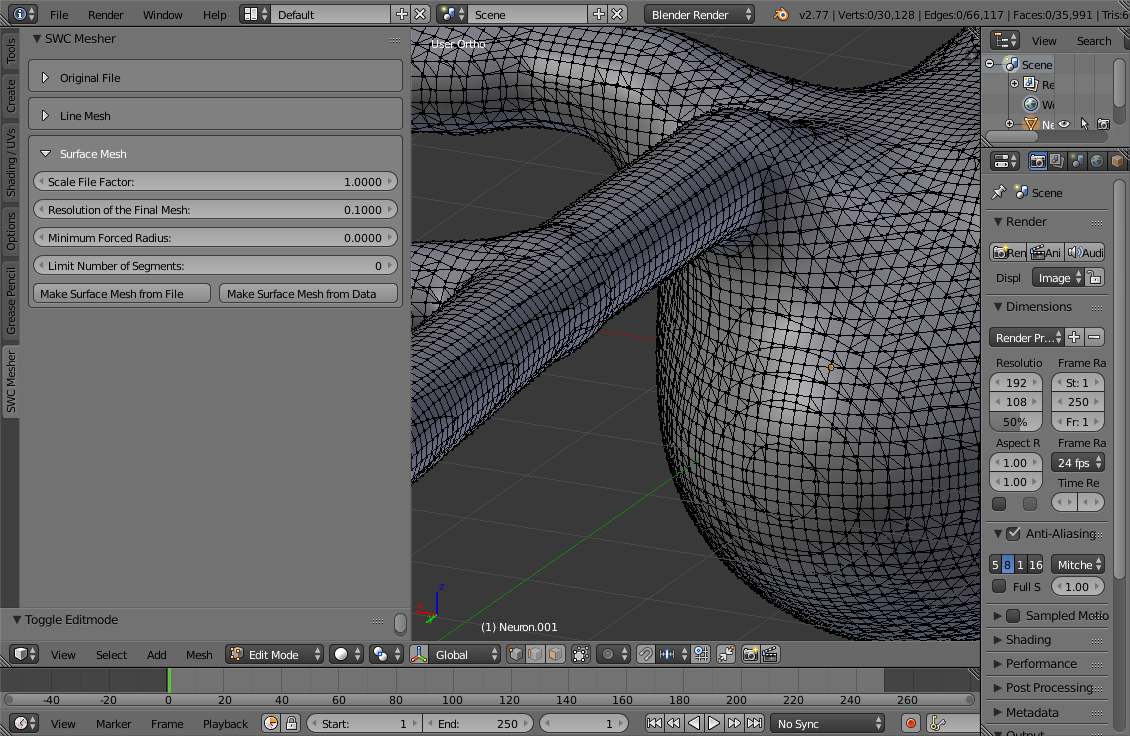
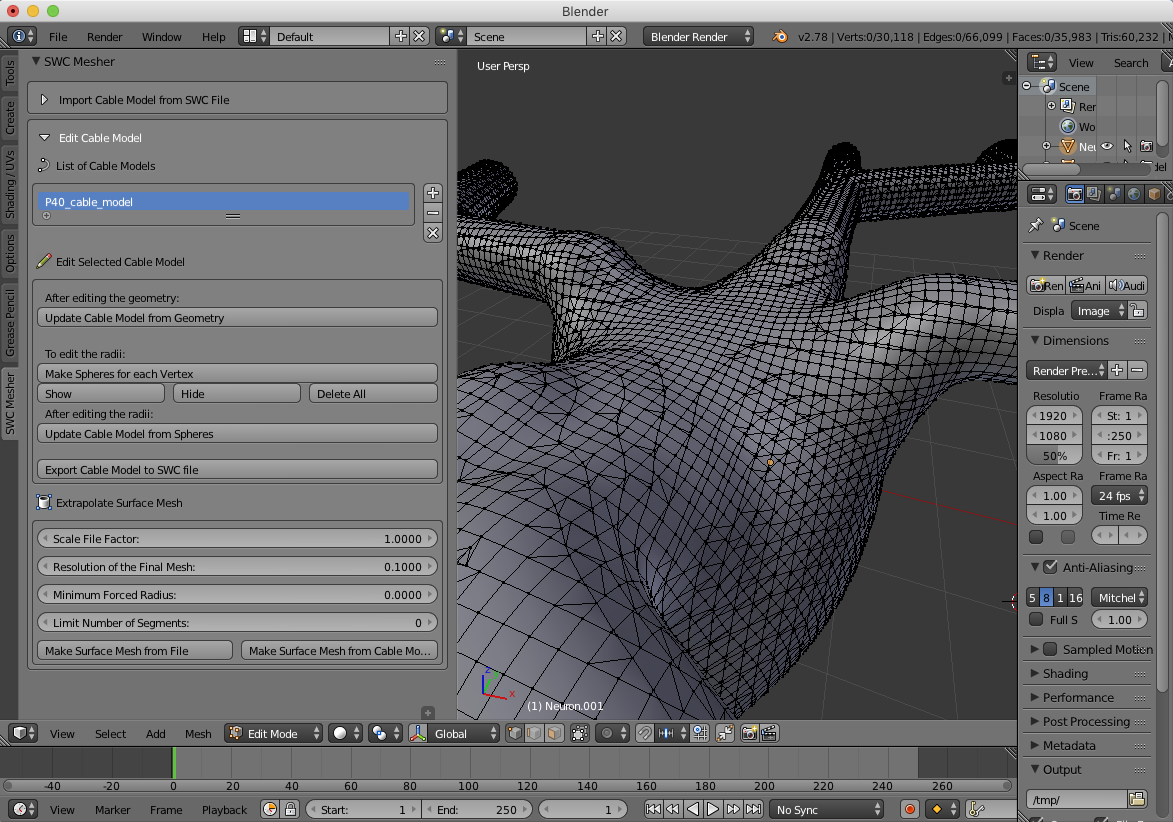
Updated Readme
Updated images, added new screenshots to describe new features, updated
Readme text

diff --git a/files/description/README.md b/files/description/README.md
@@ -43,7 +43,9 @@ Select the "SWC Mesher" tab along the left side of the 3D View:
 
 ![Installed](../images/newly_installed.png?raw=true "Newly Installed SWC Mesher")
 
-Start by opening the **Original File** subpanel and use the file navigator to select an SWC format file:
+### Importing Cable Models
+
+Start by opening the **Import Cable Model from SWC File** subpanel and use the file navigator to select an SWC format file:
 
 ![SelectFile](../images/select_a_file.png?raw=true "Selecting a File")
 
@@ -101,15 +103,53 @@ This shows that the file contains 32 non-comment lines, 31 segments, and 32 node
 largest radius of all nodes is 2.52, and the smallest is 0.67. The spatial extent of the
 neuron is contained within the X, Y, and Z ranges shown.
 
-You can create a line mesh object in Blender from that file by opening the **"Line Mesh"** 
-panel and clicking the **"Make Line Mesh from File"** button as shown here:
+You can create a line mesh object in Blender from that file by clicking the **"Make Cable Model from File"** button as shown here:
 
-![LineMesh](../images/make_line_mesh.png?raw=true "Making a Line Mesh")
+![LineMesh](../images/make_line_mesh.png?raw=true "Making a cable model")
 
-You can create a surface mesh object in Blender from that file by opening the **"Surface Mesh"** 
-panel and clicking the **"Make Surface Mesh from File"** button as shown here:
+The following panel shows the resultant cable model:
+![LineMeshResultant](../images/make_line_mesh_result.png?raw=true "Resultant cable model")
+
+### Editing Cable Models
+
+The second panel **"Edit Cable Model"** contains several tools to (1) edit the cable model, and (2) extrapolate a surface mesh from the cable. The cable model you are currently editing is the one that you have **selected** in the **"List of Cable Models"**. To add cable models to this list, select the cable model and press the appropriate cable model in Blender and press the + button. Alternatively, use the - and X buttons to remove models from the edit list.
+
+#### Editing the geometry/connectivity
+
+You can edit cable models directly in Blender. Extrapolate points, delete points, and make new edges using all the default Blender tools in edit mode. After editing the cable, the internal data model that is used by Blender to represent the cable must be updated. To do this, press the **"Update Cable Model from Geometry"** button - unfortunately, this cannot be done automatically. The internal data model must be updated for any edits to take effect. Note that this update does not provide feedback.
+
+**Also Note:** editing the cable model such that it does not meet the criteria for being a correct cable model (e.g. is edited to contain a loop) will lead to errors. 
+
+An example of extrapolating points is shown in the following panels.
+![EditGeometry1](../images/edit_geometry_1.png?raw=true "Edit cable model geometry: Before edits")
+![EditGeometry2](../images/edit_geometry_2.png?raw=true "Edit cable model geometry: After edits")
+**Remember** to update the cable model's internal data model via the **"Update Cable Model from Geometry"** button after edits are finished!
+![EditGeometry3](../images/edit_geometry_3.png?raw=true "Edit cable model geometry: Update the data model after editing")
+
+#### Editing the radii
+
+The cable model is really a ball-and-stick model, in the sense that a radius is associated with each point. To edit these radii, press the **"Make Spheres for each Vertex"** button:
+![EditRadii1](../images/edit_radii_1.png?raw=true "Edit cable model radii: Generate spheres")
+Use the **"Show"/"Hide"/"Delete All"** buttons to toggle the sphere's visibility. Use the **scale tool** (press "s") to edit the radii of different spheres. You may also move the spheres using the **grab tool** (press "g") to edit the geometry.
+![EditRadii2](../images/edit_radii_2.png?raw=true "Edit cable model radii: Before editing radii")
+![EditRadii3](../images/edit_radii_3.png?raw=true "Edit cable model radii: After editing radii")
+**Remember** to update the cable model's internal data model via the **"Update Cable Model from Spheres"** button after edits are finished, as shown below:
+![EditRadii4](../images/edit_radii_4.png?raw=true "Edit cable model radii: Update the data model after editing")
+Note that this does not provide any feedback. The internal data model must be updated for any edits to take effect. To check that the data model has been updated correctly, press the **"Delete All"** button to delete all the spheres, and then again press the **"Make Spheres for each Vertex"** button.
+
+#### Editing multiple cable models
+
+You can edit multiple cable models by adding them to the **"List of Cable Models"** to edit. Follow the steps above in the **"Import Cable Model from SWC File"** panel to import a second SWC file. After importing, the new cable model will be automatically added to the list of cable models to edit. Alternatively, select the cable model in Blender, and use the + button to add the cable model:
+![EditMultiple1](../images/edit_multiple_1.png?raw=true "Edit multiple cable models")
+The cable model that you are currently editing or extrapolating a surface mesh from is the one that is actively selected in the **"List of Cable Models"**:
+![EditMultiple2](../images/edit_multiple_2.png?raw=true "Cable model being edited")
+
+### Extrapolating Surface Meshes from the Cable Model
+
+You can create a surface mesh object in Blender from that file by opening the **"Surface Mesh"** panel and clicking the **"Make Surface Mesh from File"** button as shown here:
 
 ![SurfMesh](../images/make_surface_mesh.png?raw=true "Making a Surface Mesh")
+![ResultantSurfMesh](../images/make_surface_mesh_result.png?raw=true "Resultant Surface Mesh")
 
 As shown here, the add-on will create a series of "Meta" objects which form the surface of the Neuron. 
 This isn't a mesh at this point, but can be easily converted to a mesh by selecting the object (right

diff --git a/files/notes/README.md b/files/notes/README.md
@@ -1,27 +1,22 @@
 # SWC Mesher
 ## Notes
 
-The SWC Mesher control panel contains 3 primary subpanels:
+The SWC Mesher control panel contains 2 primary subpanels:
 
- * **Original File**
- * **Line Mesh**
- * **Surface Mesh**
+ * **Import Cable Model from SWC File**
+ * **Edit Cable Model**
 
 ![Panel](../images/controls.png?raw=true "Control Panel")
 
-The **Original File** section is used to select SWC files and read them into memory.
+The **Import Cable Model from SWC File** section is used to select SWC files and read them into memory.
 It also shows the number of non-comment lines, the number of segments, the largest and smallest radius, and the bounding box size in x, y, and z.
 The **Analyze File** button will re-read the file (in case it's been changed) and update the displayed values.
 
-The **Line Mesh** section is used to generate line meshes and to save an updated SWC file. The **"Make Line Mesh from File"** button
-will generate a skeleton directly from the SWC file. The skeleton will contain all the points and segments from the original file.
-The **"Save Line Mesh Update File"** button generates a new SWC file from the locations of Blender's line mesh. The new file name will be
-the same as the original with an additional ".out.swc" appended to the end of the name. This is useful for modifying the line mesh and saving
-it in SWC format. Note that the only editing that should be done is moving of points. This addresses one of the most common problems with many
-SWC files - intersecting branches. When branches intersect, the resulting mesh is typically not suitable for MCell simulation. The line mesh
-editing can be used to move branches slightly so they do not intersect.
+The **Make Cable Model from File** button will create a cable model in Blender. The skeleton will contain all the points and segments from the original file.
 
-The **Surface Mesh** section contains two buttons and a number of settings for surface mesh generation. The **"Make Surface Mesh from File"** button
+The **Edit Cable Model** section contains tools to edit the cable model, as well as tools to extrapolate a surface mesh from the cable. For details on editing the cable model, see the * **[Description/Tutorial](../description)**.
+
+The **"Make Surface Mesh from File"** button
 will generate a surface mesh from the currently selected file. The **"Make Surface Mesh from Data"** button will generate a surface mesh from the
 current centerline data (or skeleton). This allows comparison of changes made to the current skeleton. Note, however, that because of the way
 Blender implements the "meta" objects, there can only be one object in the "meta" state. Additional meta objects will be merged into any existing
